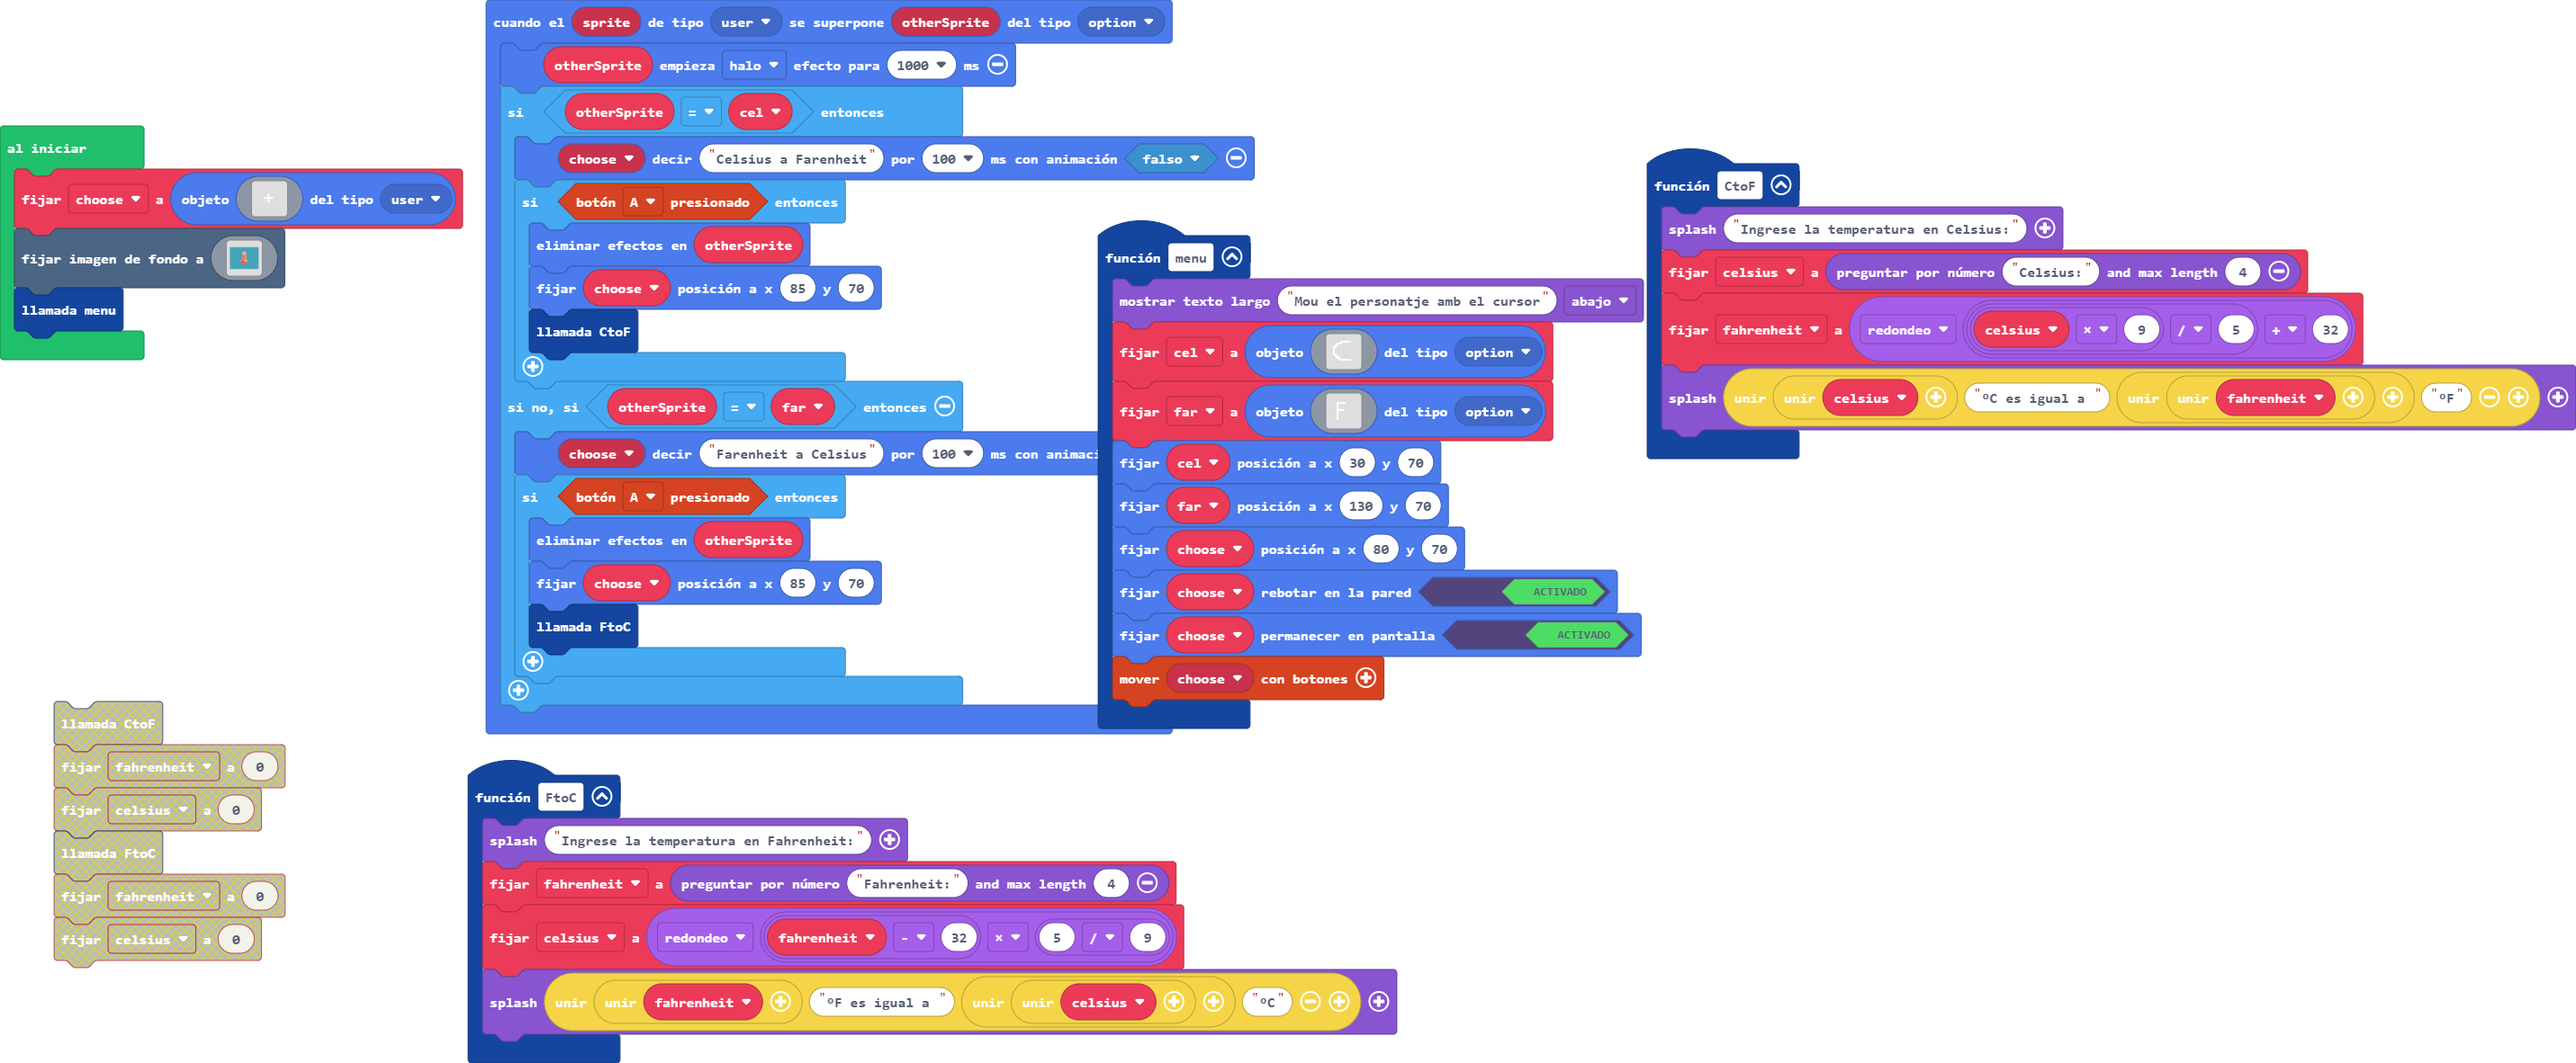
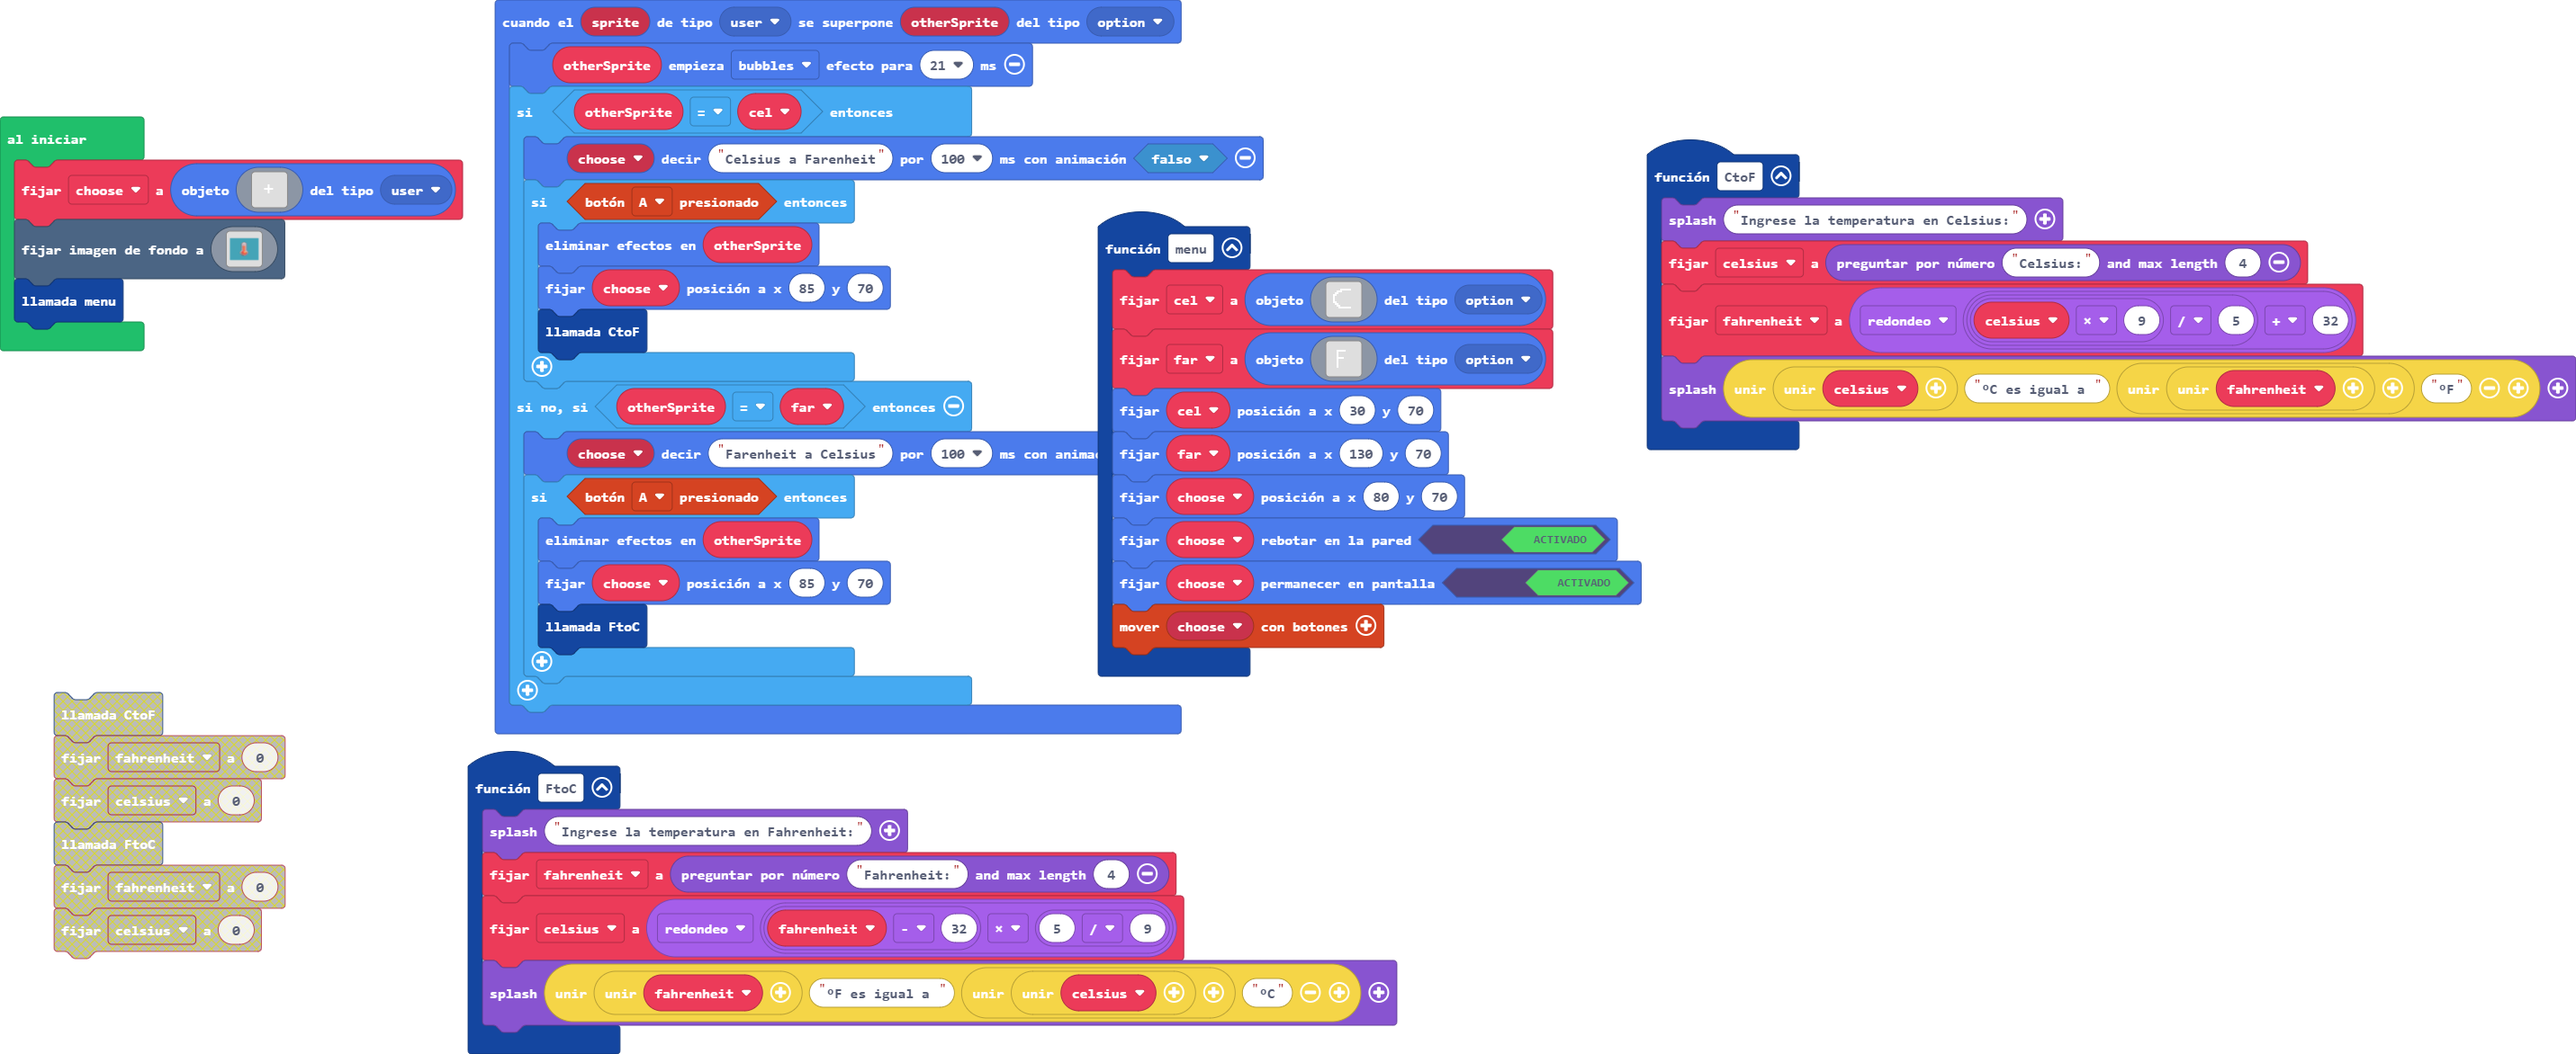
final

Changed region(s): [[0.0, 0.0, 1.0, 0.9522], [0.0, 0.6451, 0.1244, 0.9215]]

diff --git a/main.ts b/main.ts
@@ -33,7 +33,7 @@ sprites.onOverlap(SpriteKind.user, SpriteKind.option, function on_on_overlap(spr
         choose.sayText("Celsius a Farenheit", 100, false)
         if (controller.A.isPressed()) {
             effects.clearParticles(otherSprite)
-            choose.setPosition(85, 70)
+            choose.setPosition(80, 70)
             CtoF()
         }
         
@@ -41,7 +41,7 @@ sprites.onOverlap(SpriteKind.user, SpriteKind.option, function on_on_overlap(spr
         choose.sayText("Farenheit a Celsius", 100, false)
         if (controller.A.isPressed()) {
             effects.clearParticles(otherSprite)
-            choose.setPosition(85, 70)
+            choose.setPosition(80, 70)
             FtoC()
         }
         

diff --git a/main.py b/main.py
@@ -29,13 +29,13 @@ def on_on_overlap(sprite, otherSprite):
         choose.say_text("Celsius a Farenheit", 100, False)
         if controller.A.is_pressed():
             effects.clear_particles(otherSprite)
-            choose.set_position(85, 70)
+            choose.set_position(80, 70)
             CtoF()
     elif otherSprite == far:
         choose.say_text("Farenheit a Celsius", 100, False)
         if controller.A.is_pressed():
             effects.clear_particles(otherSprite)
-            choose.set_position(85, 70)
+            choose.set_position(80, 70)
             FtoC()
 sprites.on_overlap(SpriteKind.user, SpriteKind.option, on_on_overlap)
 
